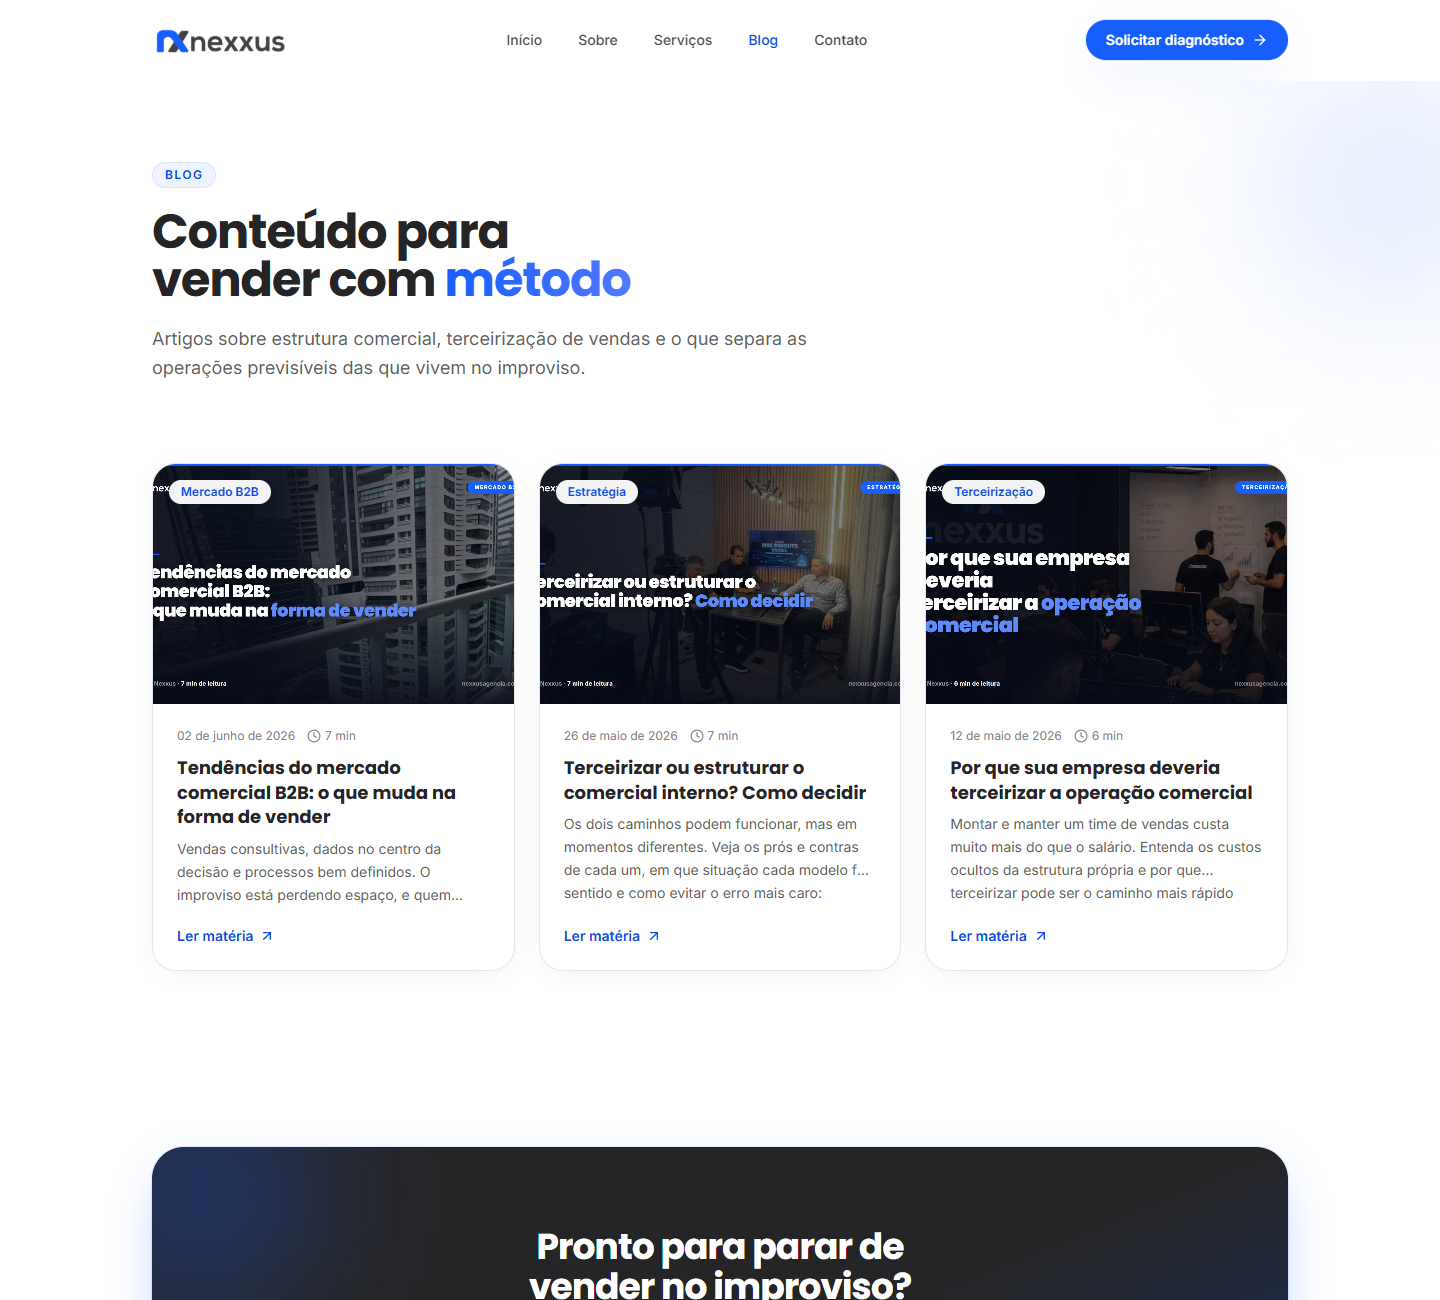
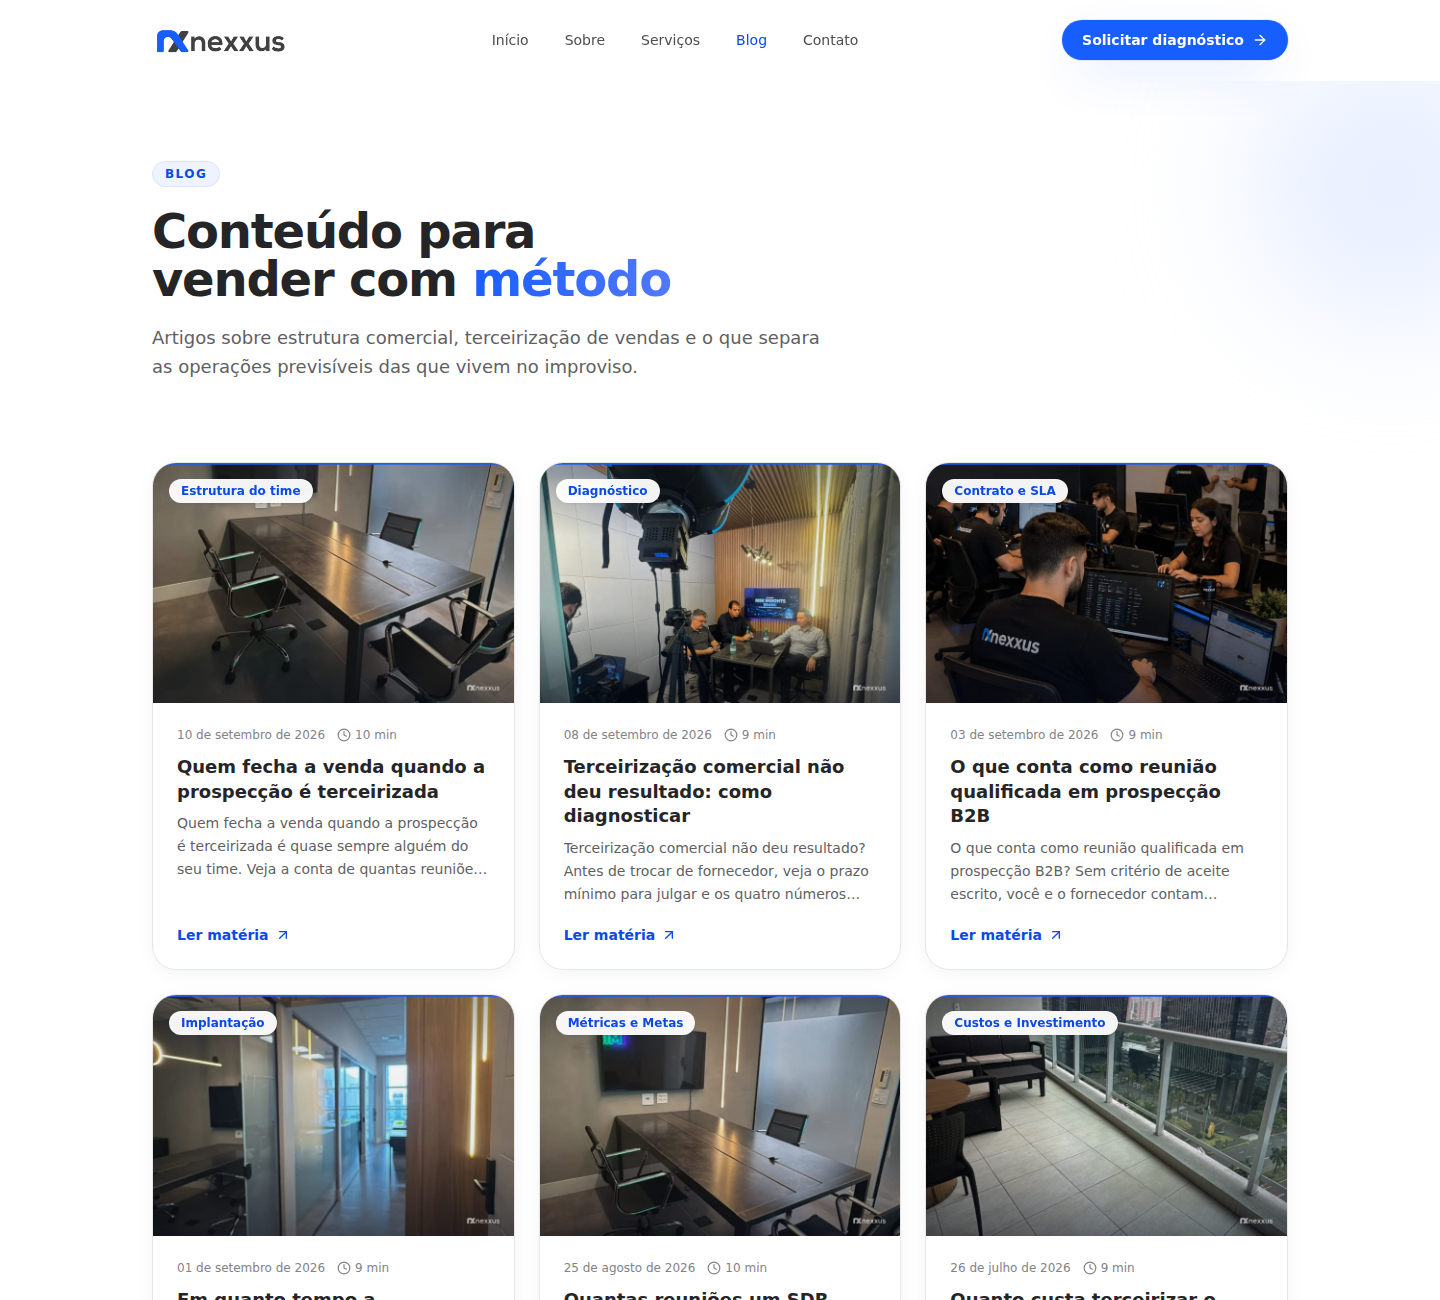
docs(loop): terceiro ciclo travado no egresso, QA visual rodado e duas ferramentas destravadas
Passe 3: 2 de 14 URLs no indice, iguais as de 24/09. Os 9 posts foram
consultados um a um no Google. HTML cru integro no gh-pages, entre 19 e 26 KB,
com a excecao de tendencias-mercado-comercial-b2b, com 11 KB. Nada na faixa de
posicao 8 a 30 para resgatar.

Sem artigo novo pelo terceiro ciclo: o egresso da sessao libera so GitHub, entao
nao da para abrir os 3 primeiros organicos nem as fontes, e os criterios de 12 e
20 pontos da rubrica ficam inalcancaveis. Teto de 68 contra corte de 85.

Achados registrados para o Gabriel:
- tendencias-mercado-comercial-b2b nao tem tabela nem FAQ e fica em cerca de
  1.000 palavras. E a pauta do primeiro ciclo com egresso aberto, como reescrita.
- O site ja publica numero proprio da Nexxus em /servicos e na home, enquanto o
  loop esta proibido de usar qualquer um deles em artigo. Nada foi alterado.

Passe 4 rodado com screenshot real em desktop e mobile, sem reprovacao:
listagem, topo de artigo com capa, tabelas (a pagina nao rola na horizontal),
post de tendencias e home.

check-blog.mjs estava cravado no Chrome do Windows e check-tabelas.mjs no
caminho do container. Os dois passaram a usar CHROME_PATH e CHROME_NO_SANDBOX,
como o check-post.mjs.

Armadilha nova na secao 6: ler head num serve -s dist local da falso negativo,
porque o fallback de SPA entrega o index.html da home no lugar do arquivo
pre-renderizado do post.

Claude-Session: https://claude.ai/code/session_019zcZDyGjFPxRncaRUymnwY

Changed region(s): [[0.0938, 0.3385, 0.9062, 1.0], [0.0938, 0.1231, 0.5625, 0.3077], [0.7188, 0.0, 0.8438, 0.0615]]

diff --git a/docs/loop-conteudo.md b/docs/loop-conteudo.md
@@ -353,12 +353,94 @@ Registradas porque já custaram tempo:
 - **PowerShell corrompendo acento.** `Get-Content` sem `-Encoding UTF8` lê como
   ANSI e destrói os acentos ao regravar. Editar arquivo de código sempre com a
   ferramenta de edição, nunca reescrevendo o arquivo por script.
+- **Verificar head num `serve -s dist` local dá falso negativo (achado de
+  29/09/2026).** O `-s` liga o fallback de SPA: qualquer `/blog/<slug>` recebe o
+  `dist/index.html` da home, não o `dist/blog/<slug>/index.html` que o build
+  pré-renderizou. Como o `index.html` traz tags estáticas antes das do
+  react-helmet, o `querySelector` lê a canonical e o `og:image` da home e o
+  `og:type` como `website`, e parece que o post está errado. Não está: conferido
+  no arquivo gerado e no `gh-pages`, a canonical é a do post e o `og:type` é
+  `article`. Screenshot desse servidor vale, leitura de head não. Para head,
+  ler o arquivo em `dist/blog/<slug>/index.html` ou o `gh-pages` cru.
+- **Chromium no container do loop.** Não existe o Chrome do Windows aqui.
+  Exportar `CHROME_PATH=/opt/pw-browsers/chromium-1194/chrome-linux/chrome` e
+  `CHROME_NO_SANDBOX=1`, servir com `npx serve -s dist -l 4173` e apontar as
+  capturas para `http://localhost:4173`.
 - **Here-string do PowerShell quebra com aspas na mensagem de commit.** Usar
   `git commit -F arquivo.txt`.
 
 ---
 
-## 7. Estado atual (24/09/2026)
+## 7. Estado atual (29/09/2026)
+
+- **Terceiro ciclo seguido sem artigo novo, e a causa continua sendo o egresso
+  de rede.** A política desta sessão libera só GitHub. O `curl` devolve
+  "CONNECT tunnel failed, response 403" para google.com, rdstation.com.br e
+  meetime.com.br, e o `WebFetch` devolve `EGRESS_BLOCKED` por host. O
+  `WebSearch` funciona, porque roda do lado do servidor, mas ele entrega
+  resumo, não a página. Sem abrir os 3 primeiros orgânicos, o critério de 12
+  pontos não tem como ser medido; sem abrir as fontes, o de 20 pontos reprova
+  por definição. Teto de 68 contra corte de 85, aritmética da rubrica e não
+  falta de capricho. **É o item a resolver antes do próximo ciclo:** a correção
+  é liberar o egresso na configuração do ambiente (Network access, no menu do
+  ambiente, em Edit), não afrouxar o processo.
+- Novidade boa: **existe Chromium no container**, em
+  `/opt/pw-browsers/chromium-1194/chrome-linux/chrome`. O passe 4 rodou com
+  screenshot de verdade pela primeira vez em container.
+- Busca `site:` em 29/09: **2 de 14 URLs no índice**, as mesmas de 24/09, a home
+  e `quanto-custa-terceirizar-time-de-vendas`. Os 9 posts foram consultados um a
+  um. Cinco dias sem mudança.
+- HTML cru no `gh-pages` conferido: 8 posts entre 19 e 26 KB, com 17 a 25
+  `<a href>` cada. A exceção é `tendencias-mercado-comercial-b2b`, com 11 KB e
+  12 links, cerca de metade dos demais. Nada perto do limiar de 5 KB, ou seja, o
+  rastreador está recebendo conteúdo.
+- Nada na faixa de 8 a 30 para resgatar. O único post indexado aparece em 2º
+  lugar orgânico para o termo de cabeça dele, à frente de Agendor e Wesow, então
+  não existe artigo com demanda comprovada e entrega fraca neste ciclo.
+- **Achado novo: `tendencias-mercado-comercial-b2b` é o ativo mais fraco do site
+  e reprovaria na rubrica hoje.** Zero tabela e zero FAQ, o que reprova direto no
+  critério de 12 pontos de formato, e é o único post sem `FAQPage` no JSON-LD,
+  confirmado na captura. Tem cerca de 1.000 palavras contra o alvo de 1.500 a
+  2.200, e carrega uma afirmação sem fonte e sem número ("a maioria das empresas
+  desiste após poucos contatos, enquanto a maior parte das vendas acontece a
+  partir do quinto"), que é adjetivo no lugar de dado. **Vira a pauta do primeiro
+  ciclo com egresso aberto**, como reescrita e não como post novo: ele já ocupa o
+  termo, e criar outro canibaliza.
+- **Achado novo, decisão do Gabriel: o site já publica número próprio da Nexxus,
+  enquanto o loop está proibido de usar qualquer um deles em artigo.** Em
+  `/servicos`, via `roles` em `src/data/metodo.ts`: SDR de 15 a 25 reuniões por
+  mês e conversão de agendamento de 10 a 25%, Hunter de 50 a 150 abordagens por
+  dia e conversão de 5 a 12,5%, Closer de 3 a 4 reuniões por dia e conversão de
+  venda de 15 a 30%. Na home, via `resultStats`: mais de 600 empresas
+  estruturadas e 60% de aumento médio em vendas. A condição de escalar 1 nomeia
+  justamente "número real de reuniões por SDR". Ou esses números já estão
+  autorizados, e aí a trava que segura a faixa de investimento merece ser
+  revista, ou escaparam, e aí o certo é retirá-los. O que não se sustenta é a
+  assimetria: a maior lacuna da SERP do nicho segue fechada por uma regra que a
+  própria home não cumpre. **Nada foi alterado**, é decisão de posicionamento.
+- Passe 4 rodado com screenshot real, sem reprovação: `/blog` em desktop e
+  mobile (capa 3/2, só foto, chip único, excerpt cortando limpo), topo de artigo
+  com capa em desktop e mobile, as tabelas do post de custo e do post de reunião
+  qualificada em desktop e mobile (`scrollWidth` igual a `clientWidth` nos dois,
+  a tabela rola dentro do bloco e a página não), topo do post de tendências e a
+  home. JSON-LD conferido na captura: 4 tipos nos posts completos, 3 no de
+  tendências.
+- Build íntegro: 14 rotas pré-renderizadas, 14 com `canonical`, sitemap com 14
+  URLs batendo com os slugs reais.
+- Corrigido neste ciclo: `check-blog.mjs` estava cravado no caminho do Chrome do
+  Windows e `check-tabelas.mjs` no caminho do container, então cada um só rodava
+  de um lado. Os dois passaram a usar o mesmo contrato do `check-post.mjs`,
+  `CHROME_PATH` e `CHROME_NO_SANDBOX`.
+- Pendências herdadas seguem valendo, e as 4 páginas de outra marca
+  (`/precificacao`, `/usual`, `/academy`, `/en`) continuam sem alteração,
+  aguardando decisão.
+
+**Próximo ciclo:** conferir primeiro se o egresso foi liberado. Se foi, a pauta
+já está escolhida: reescrever `tendencias-mercado-comercial-b2b` com tabela, FAQ
+e fontes abertas. Se não foi, não adianta rodar o loop de conteúdo. São três
+ciclos parados na mesma configuração, e o gargalo não é de pauta.
+
+## 7b. Estado anterior (24/09/2026)
 
 - **A correção chegou ao Google, e a home entrou no índice.** Esta é a novidade
   do ciclo e derruba a hipótese registrada em 22/09. O snippet que o Google
@@ -429,7 +511,7 @@ loop volta ao ritmo normal. Se continuarem fora até o começo de outubro, com o
 HTML correto desde 17/09 e com prova de rastreio recente, aí sim o problema é
 outro e vale escalar.
 
-## 7b. Estado anterior (22/09/2026)
+## 7c. Estado anterior (22/09/2026)
 
 - **Nada mudou na indexação, e a razão é que a correção nunca chegou ao
   Google.** As três ações pendentes com o Gabriel desde 17/09 (purge do
@@ -468,7 +550,7 @@ outro e vale escalar.
   estarem fora da pauta do loop. Decidir se entram no sitemap ou se recebem
   `noindex`.
 
-## 7c. Estado anterior (17/09/2026)
+## 7d. Estado anterior (17/09/2026)
 
 - 9 posts publicados. Presença confirmada na busca por
   `site:nexxusagencia.com.br/blog/<slug>`: apenas
